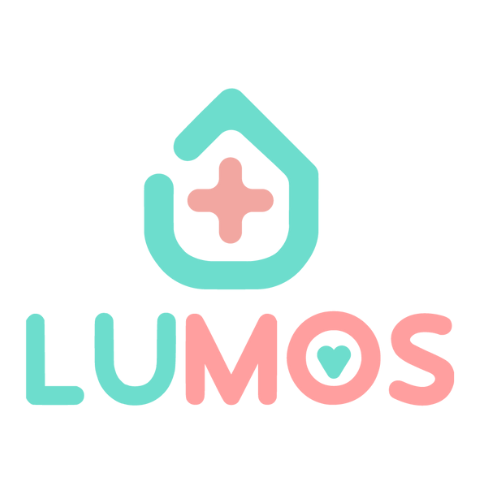
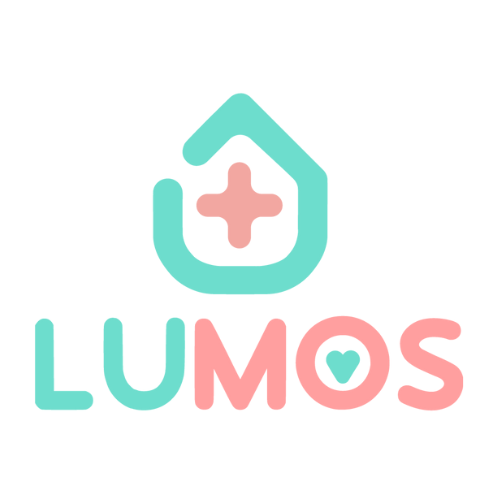
[3mallrice][Splash Screen]

diff --git a/lib/representation/splash_screen.dart b/lib/representation/splash_screen.dart
@@ -3,7 +3,7 @@ import 'package:exe201_lumos_mobile/core/helper/image_helper.dart';
 import 'package:flutter/material.dart';
 
 class SplashScreen extends StatefulWidget {
-  const SplashScreen ({Key? key}) : super(key : key);
+  const SplashScreen({Key? key}) : super(key: key);
 
   static String routeName = '/splash_screen';
 
@@ -17,7 +17,11 @@ class _SplashScreenState extends State<SplashScreen> {
     return Stack(
       // widget nào được viết trước sẽ nằm phía dưới còn widget nào viết sau sẽ nằm phía trên
       children: [
-        ImageHelper.loadFormAsset(AssetHelper.imgSplashBg, fit: BoxFit.fitWidth)
+        Positioned.fill(
+            child: ImageHelper.loadFormAsset(AssetHelper.imgSplashBg,
+                fit: BoxFit.fitWidth)),
+        Positioned.fill(
+            child: ImageHelper.loadFormAsset(AssetHelper.imgLogo)),
       ],
     );
   }
